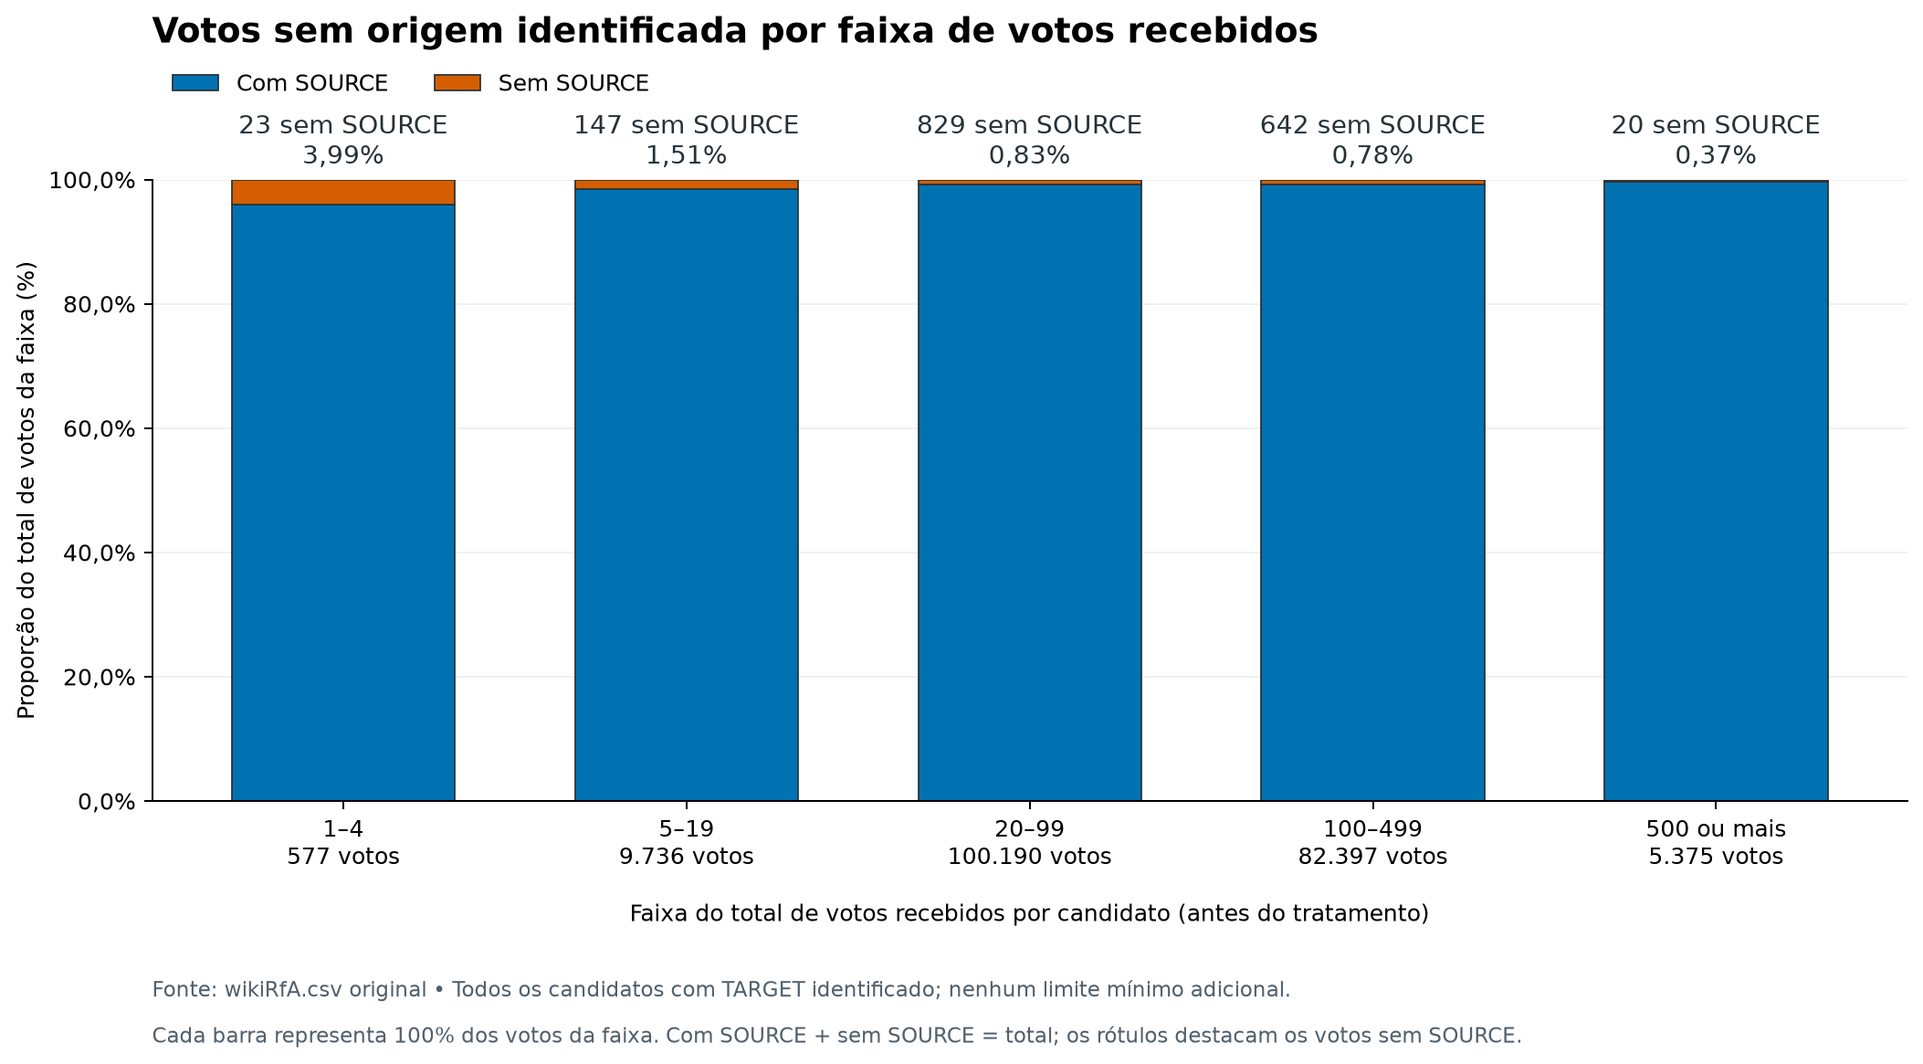
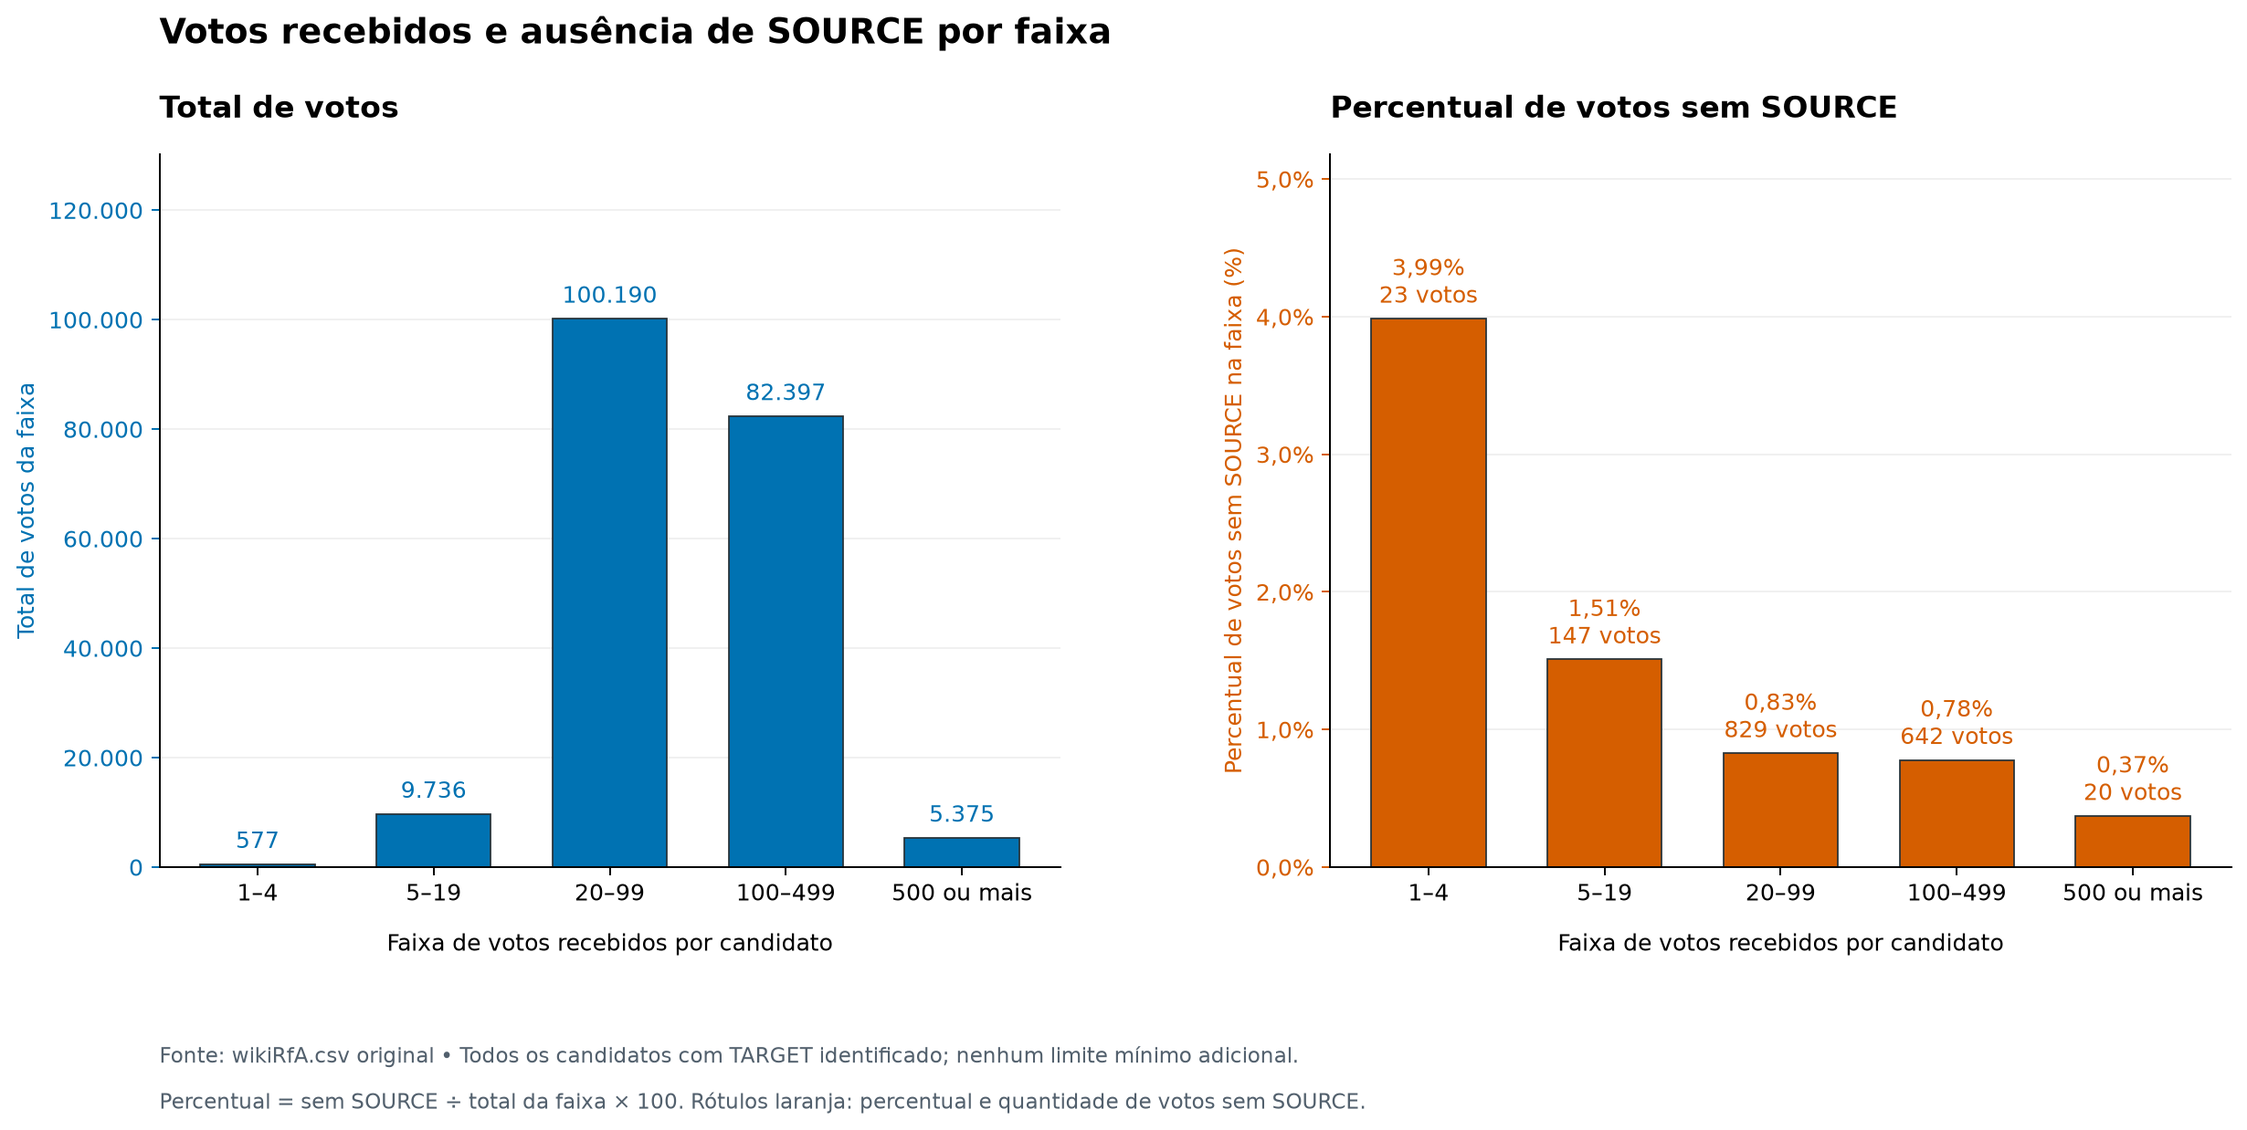
ajustes de documentação e visualização

diff --git a/src/viz.py b/src/viz.py
@@ -225,9 +225,7 @@ def gerar_figuras_parte1(pasta_saida="out/parte1"):
     grafo_estados_camadas("data/mapas/m02_uma_chave.txt", pasta_saida / "grafo_estados_camadas_m02.png")
 
 
-# [IA] ChatGPT (Codex) – seleção e implementação das visualizações da Parte 2,
-# após André informar autorização da professora. Textos analíticos gerados por IA
-# ficam identificados como rascunhos para revisão, sem atribuição autoral ao aluno.
+# [IA] ChatGPT (Codex) – seleção e implementação das visualizações da Parte 2.
 def distribuicao_graus_dataset(metricas, caminho_png):
     limites = [(0, 0), (1, 4), (5, 19), (20, 99), (100, 499), (500, None)]
     rotulos = ["0", "1–4", "5–19", "20–99", "100–499", "500 ou mais"]
@@ -467,9 +465,9 @@ def tempo_bfs_dijkstra(caminho_json, caminho_png):
     plt.close(figura)
 
 
-# [IA] ChatGPT (Codex) – barras 100% empilhadas conforme alteração solicitada por Brenda.
+# [IA] ChatGPT (Codex) – dois painéis para separar quantidades e percentuais.
 def faltantes_por_faixa(caminho_csv, caminho_png):
-    """Mostra a composição dos votos com e sem SOURCE em cada faixa."""
+    """Mostra totais e percentuais sem SOURCE em painéis separados."""
     dados = pd.read_csv(caminho_csv, index_col=0)
     candidatos = dados.groupby("TARGET").size().rename("votos").to_frame()
     candidatos["sem_source"] = dados["SOURCE"].isna().groupby(dados["TARGET"]).sum()
@@ -486,19 +484,22 @@ def faltantes_por_faixa(caminho_csv, caminho_png):
     denominador = resumo["votos"].replace(0, float("nan"))
     resumo["percentual_sem_source"] = 100 * resumo["sem_source"] / denominador
 
-    figura, eixo = plt.subplots(figsize=(12, 7))
+    figura, (eixo, eixo_percentual) = plt.subplots(1, 2, figsize=(14, 7))
     percentuais = resumo["percentual_sem_source"]
-    com_source = 100 - percentuais
-    eixo.bar(range(5), com_source, color="#0072B2", width=0.65,
-             label="Com SOURCE", edgecolor="#263238", linewidth=0.7)
-    eixo.bar(range(5), percentuais, bottom=com_source, color="#D55E00", width=0.65,
-             label="Sem SOURCE", edgecolor="#263238", linewidth=0.7)
-    eixo.set_ylim(0, 100)
+    posicoes = range(5)
+    eixo.bar(posicoes, resumo["votos"], color="#0072B2", width=0.65,
+             edgecolor="#263238", linewidth=0.7)
+    eixo_percentual.bar(posicoes, percentuais, color="#D55E00", width=0.65,
+                        edgecolor="#263238", linewidth=0.7)
+    eixo.set_ylim(0, max(1, resumo["votos"].max()) * 1.3)
+    maior_percentual = percentuais.max()
+    eixo_percentual.set_ylim(0, max(1, maior_percentual if pd.notna(maior_percentual) else 0) * 1.3)
 
-    etiquetas = []
     for posicao, (faixa, grupo) in enumerate(resumo.iterrows()):
         quantidade_votos = f"{int(grupo['votos']):,}".replace(",", ".")
-        etiquetas.append(f"{faixa}\n{quantidade_votos} votos")
+        eixo.annotate(quantidade_votos, (posicao, grupo["votos"]),
+                      xytext=(0, 7), textcoords="offset points", ha="center",
+                      fontsize=10, color="#0072B2")
         percentual = grupo["percentual_sem_source"]
         if pd.isna(percentual):
             texto = "Sem dados"
@@ -506,29 +507,35 @@ def faltantes_por_faixa(caminho_csv, caminho_png):
         else:
             quantidade_sem_source = f"{int(grupo['sem_source']):,}".replace(",", ".")
             percentual_formatado = f"{percentual:.2f}%".replace(".", ",")
-            texto = f"{quantidade_sem_source} sem SOURCE\n{percentual_formatado}"
-            altura = 100
-        eixo.annotate(texto, (posicao, altura), xytext=(0, 7),
-                      textcoords="offset points", ha="center", fontsize=11, color="#263238")
+            texto = f"{percentual_formatado}\n{quantidade_sem_source} votos"
+            altura = percentual
+        eixo_percentual.annotate(texto, (posicao, altura), xytext=(0, 7),
+                      textcoords="offset points", ha="center", fontsize=10, color="#D55E00")
 
-    eixo.set_xticks(range(5), etiquetas)
-    eixo.set_xlabel("Faixa do total de votos recebidos por candidato (antes do tratamento)", labelpad=14)
-    eixo.set_ylabel("Proporção do total de votos da faixa (%)")
-    eixo.yaxis.set_major_formatter(FuncFormatter(lambda valor, posicao: f"{valor:.1f}%".replace(".", ",")))
-    eixo.set_title("Votos sem origem identificada por faixa de votos recebidos", fontsize=15,
-                   fontweight="bold", loc="left", pad=60)
-    figura.legend(*eixo.get_legend_handles_labels(), loc="upper left",
-                   bbox_to_anchor=(0.09, 0.89), ncol=2, frameon=False)
-    eixo.grid(axis="y", alpha=0.18)
-    eixo.set_axisbelow(True)
-    eixo.spines[["top", "right"]].set_visible(False)
-    figura.text(0.09, 0.07,
+    for painel in (eixo, eixo_percentual):
+        painel.set_xticks(posicoes, rotulos)
+        painel.set_xlabel("Faixa de votos recebidos por candidato", labelpad=12)
+        painel.grid(axis="y", alpha=0.18)
+        painel.set_axisbelow(True)
+        painel.spines[["top", "right"]].set_visible(False)
+    eixo.set_ylabel("Total de votos da faixa", color="#0072B2")
+    eixo.yaxis.set_major_formatter(FuncFormatter(lambda valor, posicao: f"{valor:,.0f}".replace(",", ".")))
+    eixo.tick_params(axis="y", colors="#0072B2")
+    eixo_percentual.set_ylabel("Percentual de votos sem SOURCE na faixa (%)", color="#D55E00")
+    eixo_percentual.yaxis.set_major_formatter(FuncFormatter(lambda valor, posicao: f"{valor:.1f}%".replace(".", ",")))
+    eixo_percentual.tick_params(axis="y", colors="#D55E00")
+    eixo.set_title("Total de votos", fontsize=13, fontweight="bold", loc="left", pad=16)
+    eixo_percentual.set_title("Percentual de votos sem SOURCE", fontsize=13,
+                              fontweight="bold", loc="left", pad=16)
+    figura.suptitle("Votos recebidos e ausência de SOURCE por faixa", x=0.08, ha="left",
+                    fontsize=15, fontweight="bold")
+    figura.text(0.08, 0.07,
                 "Fonte: wikiRfA.csv original • Todos os candidatos com TARGET identificado; nenhum limite mínimo adicional.",
                 fontsize=9, color="#52606d")
-    figura.text(0.09, 0.03,
-                "Cada barra representa 100% dos votos da faixa. Com SOURCE + sem SOURCE = total; os rótulos destacam os votos sem SOURCE.",
+    figura.text(0.08, 0.03,
+                "Percentual = sem SOURCE ÷ total da faixa × 100. Rótulos laranja: percentual e quantidade de votos sem SOURCE.",
                 fontsize=9, color="#52606d")
-    figura.subplots_adjust(left=0.09, right=0.98, bottom=0.24, top=0.78)
+    figura.subplots_adjust(left=0.08, right=0.98, bottom=0.24, top=0.86, wspace=0.30)
     caminho_png = Path(caminho_png)
     caminho_png.parent.mkdir(parents=True, exist_ok=True)
     figura.savefig(caminho_png, dpi=180, bbox_inches="tight")

diff --git a/docs/visualizacoes_brenda_parte2.md b/docs/visualizacoes_brenda_parte2.md
@@ -39,13 +39,13 @@ linhas, marcadores e traçados diferentes.
 
 | Figura | Azul | Laranja-avermelhado | Identificação adicional |
 |---|---|---|---|
-| B01 | Votos com SOURCE | Votos sem SOURCE | Segmentos empilhados: com SOURCE na base e sem SOURCE no topo; contagens e percentuais dos faltantes escritos |
+| B01 | Total de votos, no painel esquerdo | Percentual de votos sem SOURCE, no painel direito | Painéis com títulos e unidades próprios; totais escritos nas barras azuis e percentuais e quantidades de faltantes nas laranjas |
 | B02 | BFS | Dijkstra | Círculos e linha contínua para BFS; quadrados e linha tracejada para Dijkstra |
 | B03 | Custo em PESO | Custo em PESO + 1 | Posição fixa das barras, legenda e valores escritos, inclusive zero; tabela com os pesos por arco |
 
 Esses recursos descrevem a implementação atual em `src/viz.py`. Em B02, formas
 e traçados diferenciam as séries além da cor. Em B01 e B03, a posição fixa,
-as legendas e os rótulos apoiam a leitura das barras sólidas. Não foi registrada
+os títulos dos painéis, as legendas e os rótulos apoiam a leitura das barras sólidas. Não foi registrada
 validação específica desta paleta para daltonismo ou contraste; a leitura em
 tons de cinza depende também desses recursos de identificação.
 
@@ -63,9 +63,15 @@ TARGET identificado, sem limite mínimo adicional.
 
 > Adotei as faixas sugeridas durante a discussão com apoio de IA para comparar candidatos com diferentes volumes de votos em cinco grupos legíveis, mantendo também aqueles com poucos votos. Os cortes são uma escolha de apresentação, não limites estatísticos. Como sua definição influencia a aparência do gráfico, apresento os intervalos e as quantidades de candidatos, votos e registros sem SOURCE para contextualizar os percentuais.
 
-As barras são 100% empilhadas: o segmento azul representa votos com SOURCE e
-o segmento laranja-avermelhado, no topo, representa votos sem SOURCE. Cada barra completa
-corresponde a todos os votos da faixa. A proporção de faltantes é calculada por:
+A figura tem dois painéis lado a lado, com as mesmas faixas no eixo horizontal.
+O painel esquerdo apresenta o total de votos por faixa em barras azuis, com eixo
+vertical em quantidade de votos. O painel direito apresenta o percentual de votos
+sem SOURCE em barras laranja-avermelhadas, com eixo vertical em porcentagem.
+Os rótulos do painel direito mostram também a quantidade de votos sem SOURCE.
+
+Essa organização mantém as duas informações legíveis e separa suas escalas.
+As alturas devem ser comparadas entre faixas dentro de cada painel; os dois
+painéis usam unidades diferentes. A proporção de faltantes é calculada por:
 `100 × soma dos votos sem SOURCE / soma de todos os votos da faixa`.
 Não é calculada a média dos percentuais individuais dos candidatos.
 Os intervalos têm larguras diferentes e são apresentados como categorias.
@@ -80,16 +86,15 @@ Os intervalos têm larguras diferentes e são apresentados como categorias.
 
 **Nota analítica.**
 
-> A primeira faixa apresenta o maior percentual de votos sem origem identificada, mas reúne apenas 577 votos, dos quais 23 estão sem SOURCE. Por isso, o percentual deve ser lido junto às quantidades absolutas: o maior segmento proporcional de votos sem SOURCE não representa a maior quantidade desses registros.
+> A primeira faixa apresenta o maior percentual de votos sem origem identificada, mas reúne apenas 577 votos, dos quais 23 estão sem SOURCE. Por isso, o percentual deve ser lido junto às quantidades absolutas: a barra mais alta do painel de percentuais não representa a maior quantidade desses registros.
 
-A nota anteriormente aprovada mencionava a “barra mais alta”. A redação acima
-foi adaptada com apoio de IA à apresentação atual, em que todas as barras
-completas têm altura de 100%.
+A nota anteriormente aprovada foi adaptada com apoio de IA para identificar
+o painel de percentuais, preservando a interpretação e os números registrados.
 
 **Limites.** A figura não determina o mecanismo nem a causa da ausência de SOURCE.
 Um voto sem origem identificada não é necessariamente um voto nulo. As faixas
 agrupam candidatos e não eleições individuais: a versão utilizada do dataset não
-possui datas nem identificadores de eleição. A altura do segmento laranja-avermelhado
+possui datas nem identificadores de eleição. A altura da barra laranja-avermelhada
 descreve a proporção de faltantes na faixa e deve ser acompanhada pelas contagens.
 
 ## B02 — Tempos de BFS e Dijkstra por tamanho do grafo e fonte

diff --git a/docs/DECLARACAO_IA_Esqueleto.md b/docs/DECLARACAO_IA_Esqueleto.md
@@ -32,7 +32,7 @@ contribuições e assume a responsabilidade pelas decisões e pelo conteúdo ent
 | Usar PESO + 1 em uma cópia para Dijkstra | Transformação definida por Brenda, conforme marcador em `src/solve.py` |
 | Usar recortes aninhados, semente 42 e seleção determinística de fontes | Regras aprovadas pela equipe, conforme marcadores em `src/benchmark.py` |
 | Concluir Bellman-Ford em 100% com uma fonte | Redução do plano autorizada por André, conforme o log |
-| Usar três painéis em B02, empilhamento em B01 e tabela de arcos em B03 | Escolhas e alterações solicitadas pelos integrantes, conforme o log e `src/viz.py` |
+| Usar três painéis em B02, dois painéis em B01 e tabela de arcos em B03 | Escolhas e alterações solicitadas pelos integrantes; a versão atual de B01 foi solicitada por Brenda após testar outros formatos, conforme o log e `src/viz.py` |
 | Restaurar azul e laranja, sem textura, pensando em pessoas com daltonismo | Escolha expressa de Brenda nesta conversa |
 
 ## 1. Identificação a completar pelo grupo
@@ -63,7 +63,7 @@ orientação da equipe, distinguindo a produção assistida das decisões humana
 | P2-03 | src/graphs/metricas_dataset.py | Métricas e testes com exemplo pequeno; conferência das somas dos graus e exportação |
 | P2-04 | Notebook de experimentos, src/solve.py e src/cli.py | Chamadas e organização dos resultados dos algoritmos existentes, exportação dos casos e integração da CLI; testes e comparação com os resultados salvos |
 | P2-05 | src/benchmark.py, src/benchmark_dfs_bellman.py, tests/test_benchmark.py e tests/test_benchmark_dfs_bellman.py | Código de recortes, seleção, medição, ambiente, hash e complemento do benchmark; aquecimento excluído, estatísticas conferidas e testes de preservação. Os marcadores também registram captura do ciclo negativo no aquecimento para novas medições; isso não significa que os arquivos históricos tenham sido reexecutados |
-| P2-06 | src/viz.py e documentos de visualizações | Sugestões de figuras e faixas, implementação, acessibilidade, conferência, discussão e organização das notas; incorporação conforme decisões dos integrantes. Ajustes solicitados incluem rótulos, barras 100% empilhadas de B01, tabela de arcos de B03 e azul/laranja sem textura. Participação de IA além de revisão ortográfica |
+| P2-06 | src/viz.py e documentos de visualizações | Sugestões de figuras e faixas, implementação, acessibilidade, conferência, discussão e organização das notas; incorporação conforme decisões dos integrantes. Em B01, foram testadas barras empilhadas, barras lado a lado e eixo duplo; a versão atual separa total de votos e percentual sem SOURCE em dois painéis, conforme solicitação de Brenda. Inclui adaptação das descrições e da nota já registrada ao novo formato, tabela de arcos de B03 e azul/laranja sem textura. Participação de IA além de revisão ortográfica |
 | P2-07 | Estudo da transformação | Localização do exemplo real, preparação do recorte e comparação; discussão do empate, explicação e redação aprovadas por Brenda |
 | P2-08 | Consolidação e verificações finais | Inclusão dos casos no relatório, leitura do benchmark comum, hashes, ambientes, cobertura, cenários inválidos e testes em clone isolado |
 | P2-09 | src/verificar_parte2.py e tests/test_verificar_parte2.py | Conferências técnicas de RESULT, outliers e DFS geradas com apoio de IA; testes de normalização e rastreabilidade. O JSON de DFS identifica explicitamente que a conferência é automática |

diff --git a/docs/RELATORIO_PARTE2.md b/docs/RELATORIO_PARTE2.md
@@ -251,7 +251,7 @@ O cinza escuro `#3E4756` é usado como referência para VOTE em A02 e no cabeça
 | A01 | Exploratória | Distribuição dos graus de entrada e saída |
 | A02 | Exploratória | Distribuições de VOTE, PESO e PESO + 1 |
 | A04 | Exploratória | VOTE, PESO e volume recebido por grupo de RESULT |
-| B01 | Exploratória | Composição com e sem SOURCE por faixa de votos recebidos |
+| B01 | Exploratória | Total de votos e percentual sem SOURCE por faixa de votos recebidos, em dois painéis |
 | A03 | Explanatória | Diferença observada entre os tempos de DFS e Bellman-Ford |
 | B03 | Explanatória | Efeito do deslocamento dos pesos sobre dois caminhos reais; responde à pergunta de pesquisa |
 | B02 | Análise visual de desempenho | Tempos de BFS e Dijkstra por fonte e tamanho |
@@ -305,9 +305,9 @@ Essas proporções são descritivas. A04 não estima causalidade, correlação l
 
 ![B01 - Faltantes por faixa](../out/parte2/brenda_01_faltantes_por_faixa.png)
 
-Fonte: CSV bruto. Nota analítica: A primeira faixa apresenta o maior percentual de votos sem origem identificada, mas reúne apenas 577 votos, dos quais 23 estão sem SOURCE. Por isso, o percentual deve ser lido junto às quantidades absolutas: o maior segmento proporcional de votos sem SOURCE não representa a maior quantidade desses registros.
+Fonte: CSV bruto. Nota analítica: A primeira faixa apresenta o maior percentual de votos sem origem identificada, mas reúne apenas 577 votos, dos quais 23 estão sem SOURCE. Por isso, o percentual deve ser lido junto às quantidades absolutas: a barra mais alta do painel de percentuais não representa a maior quantidade desses registros.
 
-Na apresentação atual, cada barra representa 100% dos votos da faixa: azul para registros com SOURCE na base e laranja-avermelhado para registros sem SOURCE no topo. O empilhamento compara a composição de cada faixa; as contagens e os percentuais de faltantes escritos acima das barras permitem ler também os segmentos pequenos. A nota foi adaptada à apresentação atual, sem tratar as barras completas como tendo alturas diferentes.
+Na apresentação atual, a figura tem dois painéis com as mesmas faixas: à esquerda, barras azuis mostram o total de votos, em quantidade; à direita, barras laranja-avermelhadas mostram o percentual sem SOURCE, com a quantidade de votos ausentes escrita junto ao percentual. Os painéis separam as escalas para manter legíveis as duas informações. As alturas devem ser comparadas entre faixas dentro de cada painel, pois as unidades são diferentes. A nota foi adaptada para identificar o painel de percentuais, preservando a interpretação e os números registrados.
 
 Brenda aprovou as faixas 1-4, 5-19, 20-99, 100-499 e 500 ou mais como escolha de apresentação para cinco grupos legíveis, mantendo poucos votos. Os cortes não são limites estatísticos. A medida é a proporção agregada por faixa, não a média de percentuais individuais. As quantidades sem SOURCE são 23, 147, 829, 642 e 20, totalizando 1.661.
 

diff --git a/README.md b/README.md
@@ -45,13 +45,13 @@ Para gerar os resultados de todos os mapas:
 python -m src.cli --todos
 ```
 
-Os resultados ficam em `out/parte1/`. A coluna `ordem_visita` de `solucoes.csv` registra a ordem em que os estados do BFS saem da fila. Para abrir a interface interativa:
+Os resultados ficam em `out/parte1/`. Para abrir a interface interativa das duas partes:
 
 ```bash
 python -m src.front.server
 ```
 
-Acesse [o labirinto interativo](http://127.0.0.1:8766/out/parte1/labirinto_interativo.html). Para resolver apenas um mapa, consulte as opções em `python -m src.cli --help`.
+Acesse [a interface do projeto](http://127.0.0.1:8766/): a Parte 1 reúne os labirintos; a Parte 2, as figuras e o grafo interativo do dataset. Para resolver apenas um mapa, consulte `python -m src.cli --help`.
 
 ## Parte 2 — Dataset Wiki-RfA
 
@@ -121,7 +121,7 @@ projeto-grafos-g1/
 │   ├── benchmark.py                 benchmark de BFS e Dijkstra
 │   ├── benchmark_dfs_bellman.py      benchmark de DFS e Bellman-Ford
 │   ├── viz.py                       geração das figuras
-│   └── front/                       interface interativa da Parte 1
+│   └── front/                       interface interativa das Partes 1 e 2
 ├── out/
 │   ├── parte1/                      resultados e interface dos labirintos
 │   └── parte2/                      casos, métricas, benchmarks, figuras e relatório JSON
